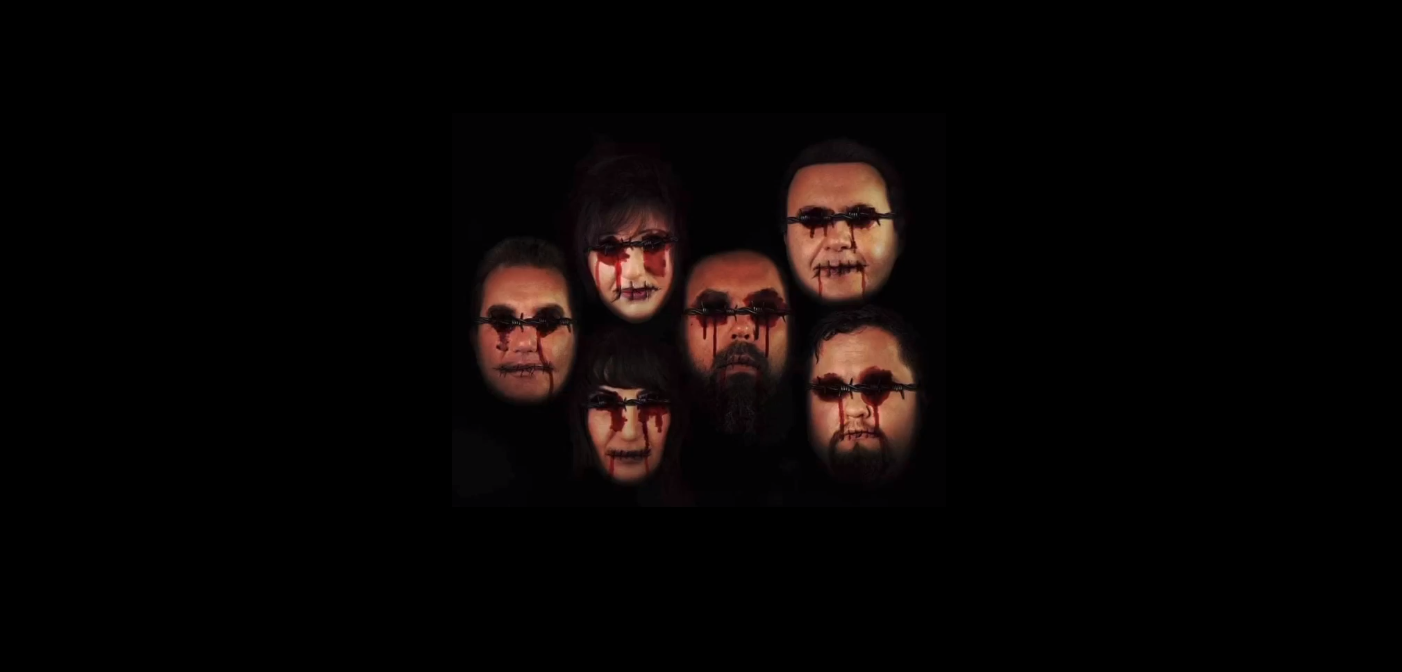
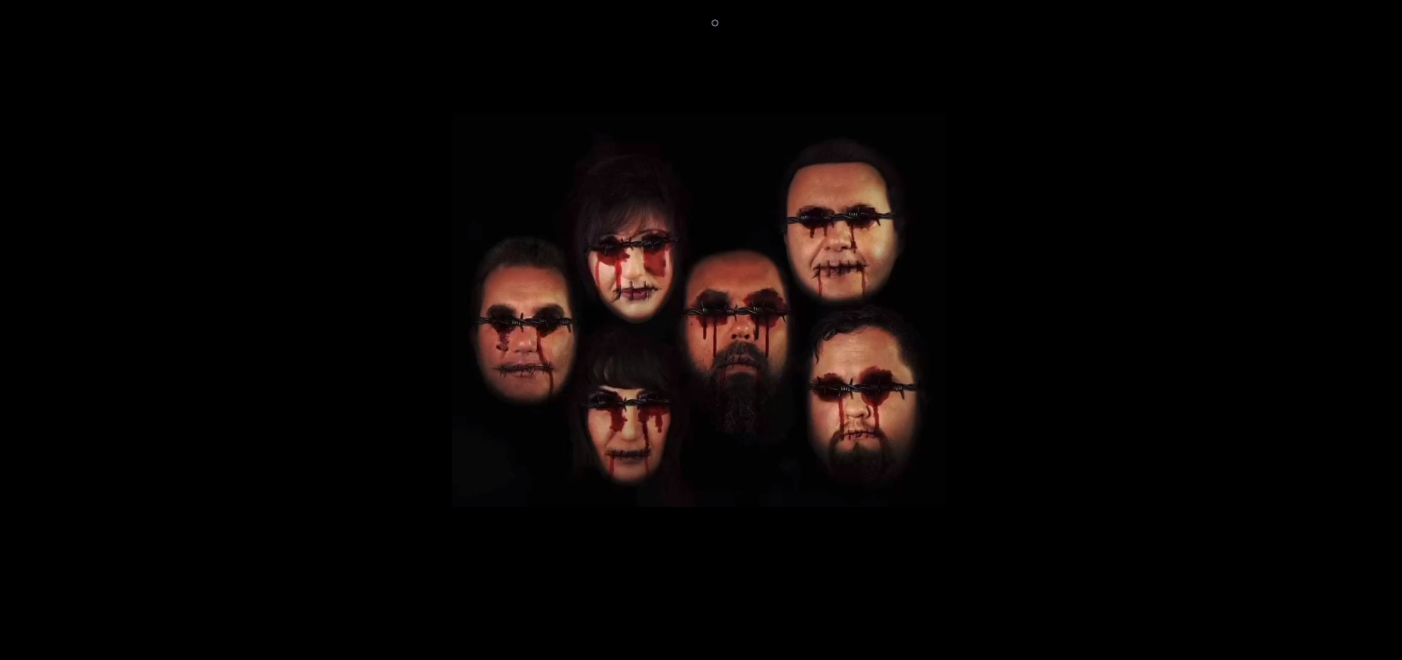
Revert oversizing of background faces image

Changed region(s): [[0.3374, 0.303, 0.6748, 0.7273], [0.5521, 0.2424, 0.6441, 0.2727]]

diff --git a/darwiche-site/src/styles/BandLogo.module.css b/darwiche-site/src/styles/BandLogo.module.css
@@ -34,10 +34,11 @@
     -webkit-background-size: contain;
     -moz-background-size: contain;
     -o-background-size: contain;
-    background-size: 160%;
+    background-size: 100%;
     content: ' ';
     display: block;
     position: absolute;
+
     left: 0;
     top: 0;
     width: 100%;
